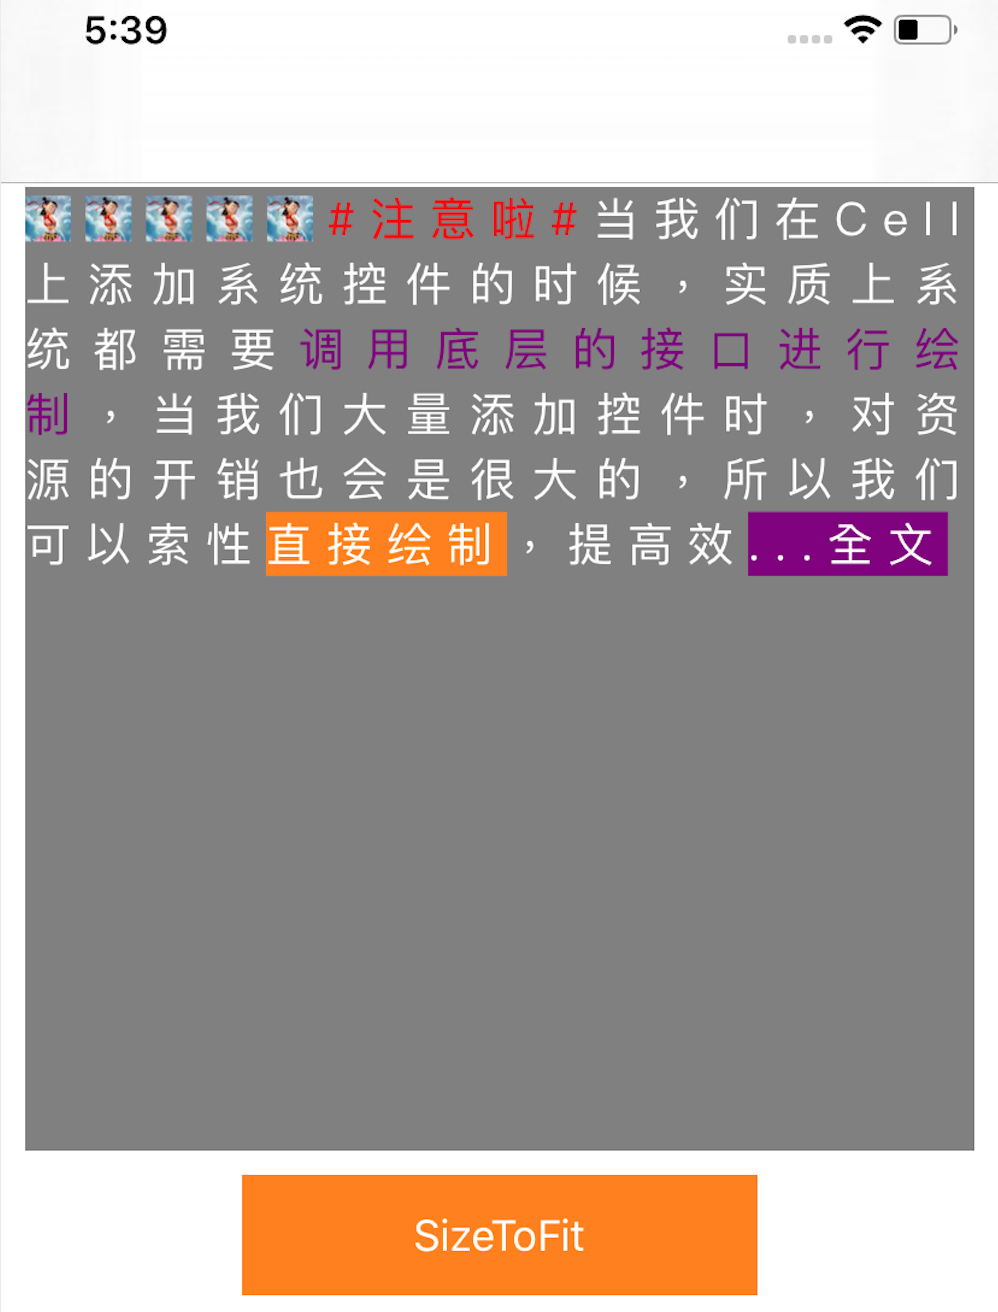
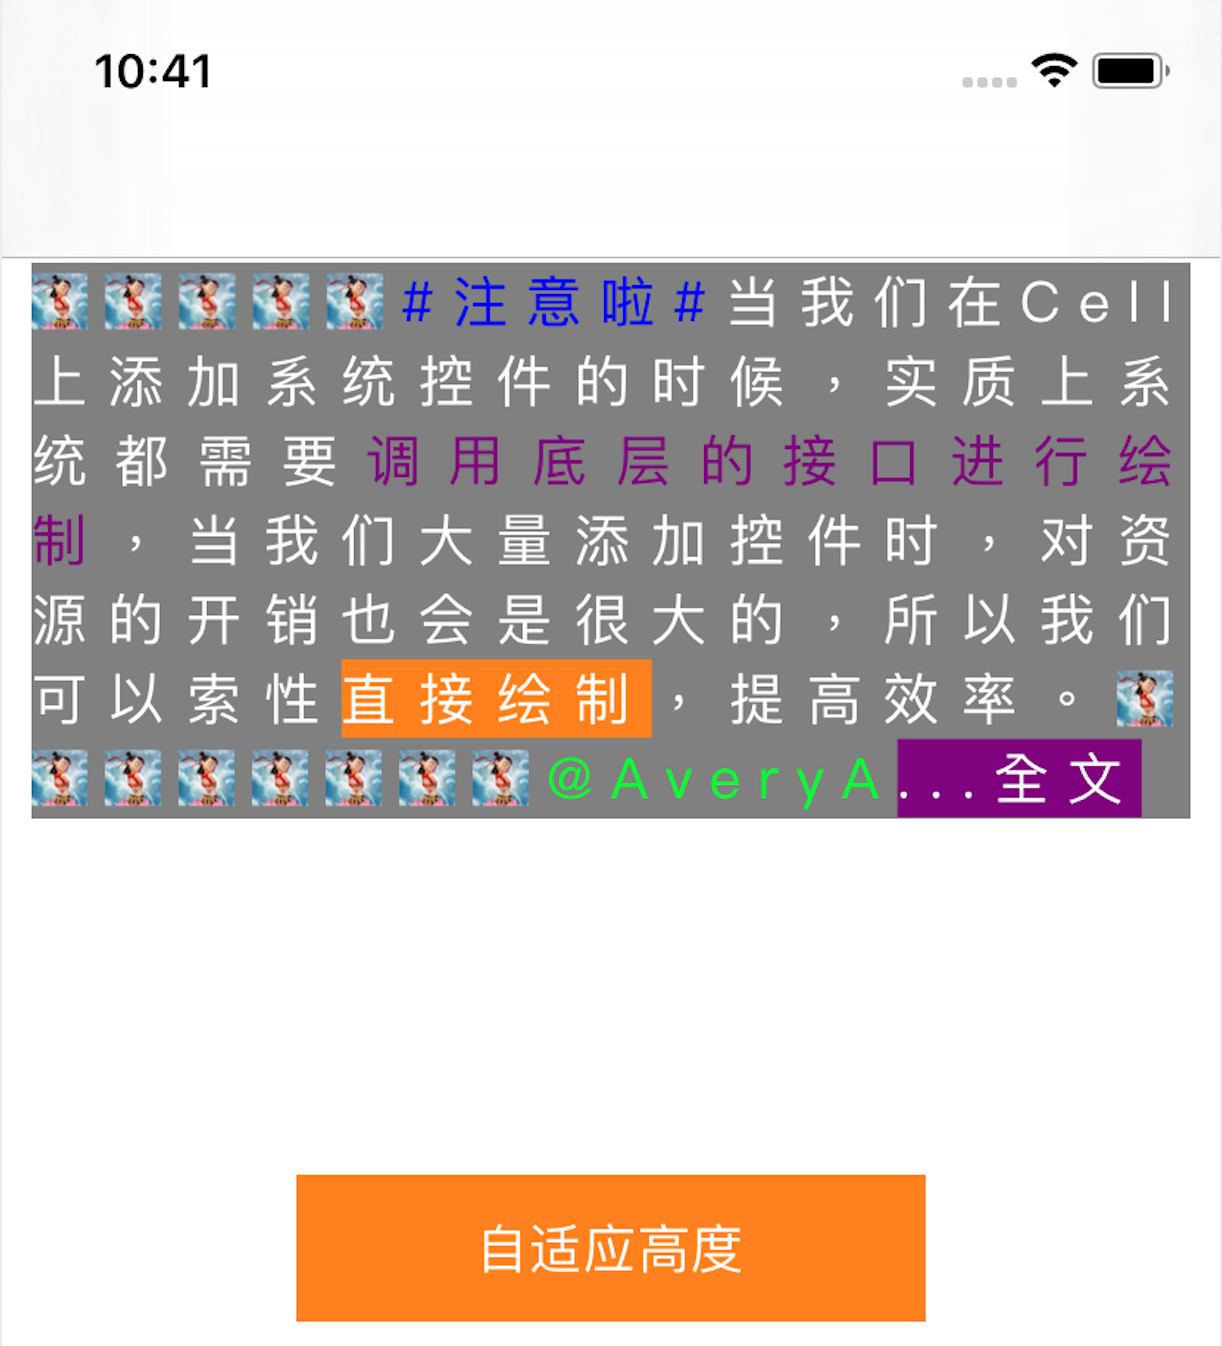
update demo pngs

diff --git a/CoreText/RootViewController.m b/CoreText/RootViewController.m
@@ -25,7 +25,7 @@
     
     UIButton *button = [UIButton buttonWithType:UIButtonTypeCustom];
     button.backgroundColor = [UIColor orangeColor];
-    button.frame = CGRectMake(100, 500, [UIScreen mainScreen].bounds.size.width - 100*2, 50);
+    button.frame = CGRectMake(100, 400, [UIScreen mainScreen].bounds.size.width - 100*2, 50);
     [button setTitle:@"自适应高度" forState:UIControlStateNormal];
     [button addTarget:self action:@selector(action_sizeToFit) forControlEvents:UIControlEventTouchUpInside];
     [self.view addSubview:button];
@@ -33,7 +33,7 @@
     
     
     // 【 QAAttributedLabel的使用方法 】
-    QAAttributedLabel *label = [[QAAttributedLabel alloc] initWithFrame:CGRectMake(10, 90, [UIScreen mainScreen].bounds.size.width - 10*2, 400)];
+    QAAttributedLabel *label = [[QAAttributedLabel alloc] initWithFrame:CGRectMake(10, 90, [UIScreen mainScreen].bounds.size.width - 10*2, 300)];
     self.label = label;
     label.backgroundColor = [UIColor grayColor];
     label.font = [UIFont fontWithName:@"PingFangTC-Regular" size:19];
@@ -83,16 +83,16 @@
     
     // *** 【3】 文案的裁剪 ('...全文'):
     {
-        label.numberOfLines = 0;
+//        label.numberOfLines = 0;
         
-//        label.numberOfLines = 6;
-//        label.showMoreText = YES;
-//        label.seeMoreText = @"...全文";
-//        label.moreTextFont = [UIFont fontWithName:@"PingFangTC-Regular" size:19];
-//        label.moreTextColor = [UIColor whiteColor];
-//        label.moreTextBackgroundColor = [UIColor purpleColor];
-//        label.moreTapedBackgroundColor = [UIColor redColor];
-//        label.moreTapedTextColor = [UIColor blueColor];
+        label.numberOfLines = 7;
+        label.showMoreText = YES;
+        label.seeMoreText = @"...全文";
+        label.moreTextFont = [UIFont fontWithName:@"PingFangTC-Regular" size:19];
+        label.moreTextColor = [UIColor whiteColor];
+        label.moreTextBackgroundColor = [UIColor purpleColor];
+        label.moreTapedBackgroundColor = [UIColor redColor];
+        label.moreTapedTextColor = [UIColor blueColor];
     }
     
     [self.view addSubview:label];
